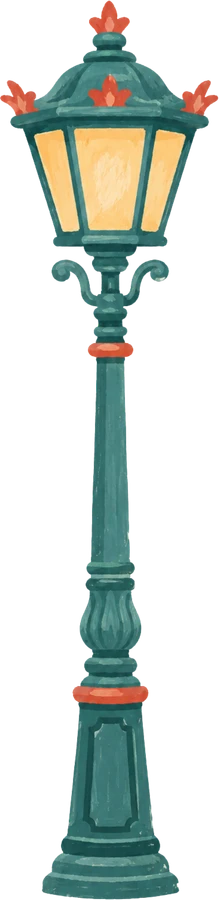
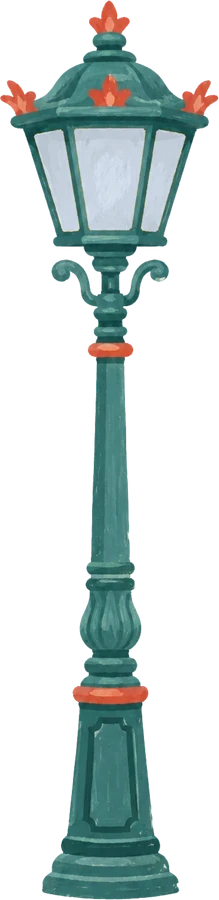
Cozy Blue City: its own link preview (the present under a blue sky) and its own thumbnail in the list of invitations; "Preview animation" can switch between a phone and a tablet screen. Tablet: more air between the words, bigger titles (37px), intro lines 17px, hosts' line 23px, address and details 

Changed region(s): [[0.1644, 0.1244, 0.8493, 0.28]]

diff --git a/app/preview/[id]/PhoneFrame.tsx b/app/preview/[id]/PhoneFrame.tsx
@@ -2,7 +2,12 @@
 
 import { useEffect, useState } from "react";
 
-const W = 390, H = 844; // a modern phone (iPhone 14 / 15): the page inside is a real 390 x 844 screen, so every media query and screen-height rule behaves as on a phone
+// a modern phone (iPhone 14 / 15) and a tablet (iPad): the page inside is a real screen of that size, so every media query and screen-height rule behaves as on the device
+const DEVICES = {
+  phone: { label: "Phone", W: 390, H: 844, bez: 14, outer: 58, inner: 44 },
+  tablet: { label: "Tablet", W: 768, H: 1024, bez: 22, outer: 42, inner: 22 },
+} as const;
+type Device = keyof typeof DEVICES;
 
 /**
  * "Preview animation" on a computer: the saved draft is shown in a real phone-sized screen (an iframe of the same page), scaled down to fit the window.
@@ -10,21 +15,30 @@ const W = 390, H = 844; // a modern phone (iPhone 14 / 15): the page inside is a
  */
 export function PhoneFrame({ src, embeddedSrc, backHref }: { src: string; embeddedSrc: string; backHref: string }) {
   const [scale, setScale] = useState<number | null>(null);
+  const [device, setDevice] = useState<Device>("phone");
+  const { W, H, bez, outer, inner } = DEVICES[device];
   useEffect(() => {
     if (window.matchMedia("(max-width: 640px)").matches) { window.location.replace(src); return; } // a phone: no frame, the real screen
-    const fit = () => setScale(Math.min(1, (window.innerHeight - 150) / (H + 28)));
+    const fit = () => setScale(Math.min(1, (window.innerHeight - 190) / (H + 2 * bez), (window.innerWidth - 40) / (W + 2 * bez)));
     fit();
     window.addEventListener("resize", fit);
     return () => window.removeEventListener("resize", fit);
-  }, [src]);
+  }, [src, W, H, bez]);
   if (scale === null) return <p className="mt-10 text-center text-sm">Opening the preview…</p>;
-  const bez = 14;
   return (
     <main className="px-4 py-5">
-      <p className="mb-4 text-center text-sm"><a className="underline" href={backHref}>← Back to editor</a> · private preview of your saved draft, shown on a phone screen ({W} × {H}). Tap the envelope to test the animation.</p>
+      <p className="mb-4 text-center text-sm"><a className="underline" href={backHref}>← Back to editor</a> · private preview of your saved draft, shown on a {device} screen ({W} × {H}). Tap the cover to test the animation.</p>
+      <div role="tablist" aria-label="Screen" style={{ display: "flex", justifyContent: "center", gap: 6, marginBottom: 16 }}>
+        {(Object.keys(DEVICES) as Device[]).map((d) => (
+          <button key={d} type="button" role="tab" aria-selected={device === d} onClick={() => setDevice(d)}
+            style={{ padding: "7px 18px", borderRadius: 999, fontSize: 14, fontWeight: 600, border: "1px solid #d6d3db", background: device === d ? "#2b2233" : "#fff", color: device === d ? "#fff" : "#2b2233", cursor: "pointer" }}>
+            {DEVICES[d].label}
+          </button>
+        ))}
+      </div>
       <div style={{ width: (W + 2 * bez) * scale, height: (H + 2 * bez) * scale, margin: "0 auto" }}>
-        <div style={{ width: W + 2 * bez, height: H + 2 * bez, transform: `scale(${scale})`, transformOrigin: "0 0", background: "#0b0b0c", borderRadius: 58, padding: bez, boxShadow: "0 24px 60px rgba(40,30,40,.35), inset 0 0 0 2px #3a3a3d" }}>
-          <iframe title="Phone preview" src={embeddedSrc} width={W} height={H} style={{ display: "block", border: 0, borderRadius: 44, background: "#fff" }} allow="autoplay" />
+        <div style={{ width: W + 2 * bez, height: H + 2 * bez, transform: `scale(${scale})`, transformOrigin: "0 0", background: "#0b0b0c", borderRadius: outer, padding: bez, boxShadow: "0 24px 60px rgba(40,30,40,.35), inset 0 0 0 2px #3a3a3d" }}>
+          <iframe key={device} title={`${DEVICES[device].label} preview`} src={embeddedSrc} width={W} height={H} style={{ display: "block", border: 0, borderRadius: inner, background: "#fff" }} allow="autoplay" />
         </div>
       </div>
     </main>

diff --git a/app/templates/christmas-gift.css b/app/templates/christmas-gift.css
@@ -511,3 +511,33 @@
 /* "Down to the street": almost at the very bottom of the sky screen (the screen's foot is 84cqh below the top of these words, less the star) */
 .gs-p4 .gs-back { position:absolute; left:50%; translate:-50% 0; top:calc(84cqh - min(40cqw, 280px) - 56px); margin:0; white-space:nowrap; }
 .gs-p2 .gs-small, .gs-p3 .gs-place-intro { font-size:13px; } /* "You are invited to a" and "We have reserved a table at" */
+/* on a tablet: more air between the parts of the text */
+@container (min-width: 600px) {
+  .gc-title { margin-top:16px; }
+  .gx-screen .gc-box { margin:min(14cqh, 130px) 0 min(9cqh, 90px); }
+  .gs-text { gap:18px; }
+  .gs-p2 .gs-line { margin-top:22px; }
+  .gs-p3 .gs-link { margin-top:16px; }
+  .gs-p5 .gs-detail { margin-top:30px; gap:12px; }
+  .gs-p4 .gs-closing { margin-top:10px; margin-bottom:22px; }
+  .gs-btn { margin-top:14px; }
+}
+/* a phone 700px tall or more: every button 25px further from the words above it */
+@container (max-width: 599px) and (min-height: 700px) {
+  .gs-btn { margin-top:25px; }
+}
+.gs .rsvp-bg { align-items:center; justify-content:center; padding:11px; } /* the reply window in the middle of the screen, on every screen size */
+/* on a tablet: "You are invited to a" 17px, the hosts' line 23px */
+@container (min-width: 600px) {
+  .gs-p2 .gs-small, .gs-p3 .gs-place-intro { font-size:17px; } /* "You are invited to a", "We have reserved a table at" */
+  .gs-p2 .gs-line { font-size:23px; }
+  .gs-p3 .gs-address { width:400px; max-width:100%; padding:0; box-sizing:border-box; } /* the address in a 400px column */
+  .gs-p5 .gs-detail .gs-small { font-size:14px; } /* the details' headings */
+  .gs-p5 .gs-detail .gs-line { font-size:19px; width:400px; max-width:100%; padding:0; box-sizing:border-box; } /* the details' text, in a 400px column */
+  .gs-p2 .gs-title { font-size:37px; } /* "Christmas Dinner" */
+  .gs-p5 .gs-title { font-size:37px; } /* "Details" */
+  .gs-p4 .gs-title { font-size:37px; } /* "Please RSVP" */
+  .gs-p4 .gs-closing { font-size:23px; } /* "We look forward to a cozy evening with you!" */
+  .gs-p3 .gs-link, .gs-p4 .gs-link { font-size:13px; } /* "Get directions" and "Add to calendar": 3px bigger */
+}
+.gs-lamp::before { display:none; } /* the street lamps are not lit: no warm glow around them */

diff --git a/app/dashboard/page.tsx b/app/dashboard/page.tsx
@@ -69,7 +69,12 @@ export default async function Dashboard() {
                     {c && isWebsiteTemplate(tplOf.get(i.id)) && (
                       <span className="dash-thumb-inner dash-thumb-web"><WebsiteExperience slug={tplOf.get(i.id)} content={c} mode="preview" startAt="envelope" coverOnly stillVideo /></span>
                     )}
-                    {c && !isWebsiteTemplate(tplOf.get(i.id)) && (
+                    {c && tplOf.get(i.id) === "cozy-blue-city" && (
+                      // Cozy Blue City: the present on its cover, as a picture
+                      // eslint-disable-next-line @next/next/no-img-element
+                      <img src="/templates/christmas-gift/v1/thumb.webp" alt="" style={{ position: "absolute", inset: 0, width: "100%", height: "100%", objectFit: "cover" }} />
+                    )}
+                    {c && !isWebsiteTemplate(tplOf.get(i.id)) && tplOf.get(i.id) !== "cozy-blue-city" && (
                       <span className="inv dash-thumb-inner" data-template={tplOf.get(i.id) === "christmas-velvet" ? "christmas-party" : tplOf.get(i.id)} data-design={tplOf.get(i.id)}>
                         <span className="card cover cover-static"><CoverInner content={c} mode="preview" template={tplOf.get(i.id)} /></span>
                       </span>

diff --git a/app/[slug]/page.tsx b/app/[slug]/page.tsx
@@ -23,7 +23,7 @@ export async function generateMetadata({ params }: { params: Promise<{ slug: str
   const ph = c?.photo;
   const v = ph ? createHash("sha1").update(`${ph.url}|${ph.cx}|${ph.cy}|${ph.zoom}`).digest("hex").slice(0, 8) : "";
   // the Christmas party has its own preview card (no beloved names, no wedding picture)
-  const images = [{ url: isParty ? (tpl === "christmas-velvet" ? "/share-card-velvet.jpg" : "/share-card-christmas.jpg") : ph || isWebsiteTemplate(tpl) ? `/${slug}/og?v=${v || "w"}${isWebsiteTemplate(tpl) ? "-" + createHash("sha1").update(`${first}|${second}|${c?.texts?.coverTop ?? ""}`).digest("hex").slice(0, 6) : ""}` : "/share-card.jpg", width: 1200, height: 630, alt: isParty ? "Christmas party invitation" : title }];
+  const images = [{ url: isParty ? (tpl === "christmas-velvet" ? "/share-card-velvet.jpg" : tpl === "cozy-blue-city" ? "/share-card-cozy.jpg" : "/share-card-christmas.jpg") : ph || isWebsiteTemplate(tpl) ? `/${slug}/og?v=${v || "w"}${isWebsiteTemplate(tpl) ? "-" + createHash("sha1").update(`${first}|${second}|${c?.texts?.coverTop ?? ""}`).digest("hex").slice(0, 6) : ""}` : "/share-card.jpg", width: 1200, height: 630, alt: isParty ? "Christmas party invitation" : title }];
   return {
     title,
     description,
